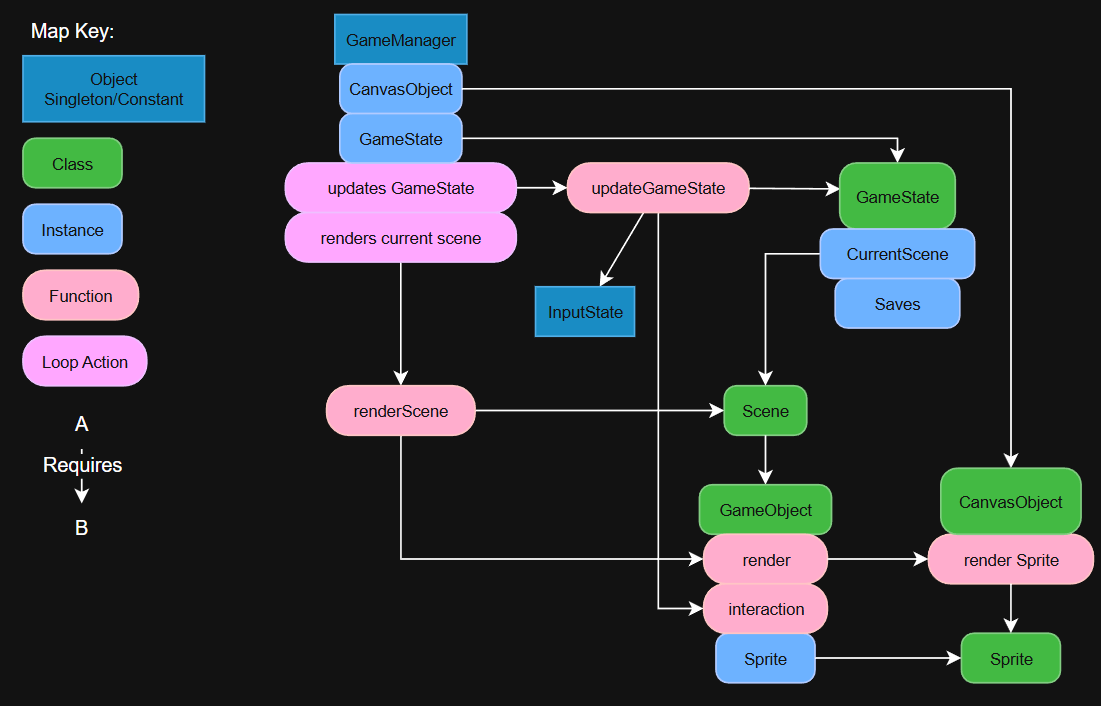
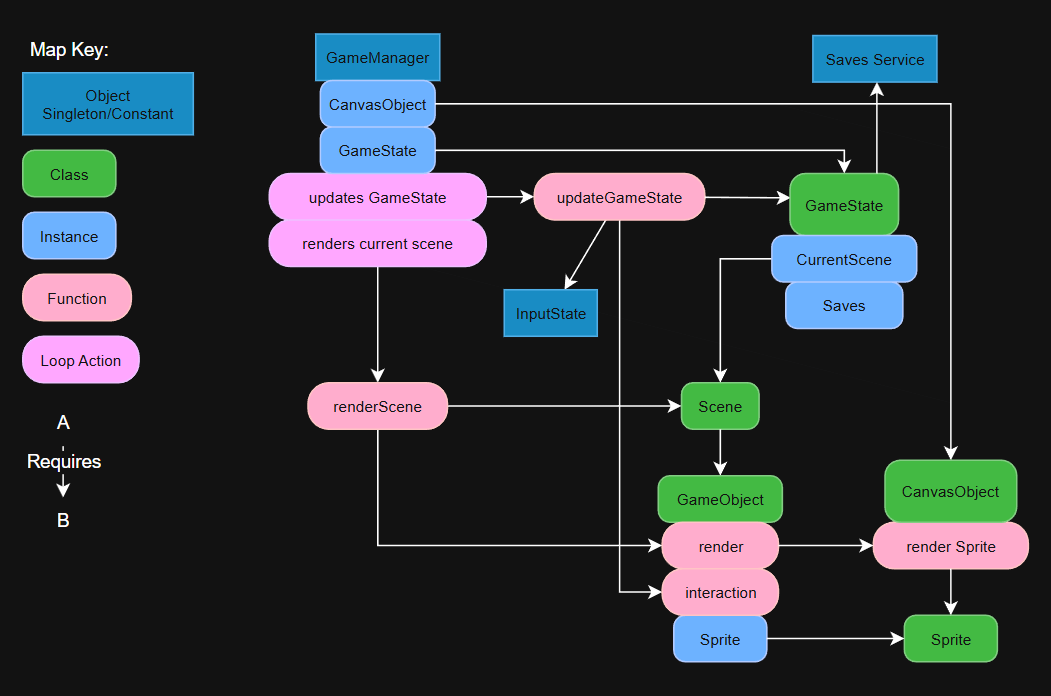
add perito dev translation image alt versions

Changed region(s): [[0.2436, 0.0, 1.0, 0.9957], [0.0, 0.0302, 0.2131, 0.7543]]

diff --git a/scripts/translation.js b/scripts/translation.js
@@ -12,12 +12,12 @@ const texts = {
     pt: "Portifólio de Bruno Rubim",
   },
   "welcome-1": {
-    en: "Hi, welcome to my portfolio! Here is where you can find overviews of my work in different projects.",
-    pt: "Olá, bem vind@ ao meu portifólio! Aqui você encontra alguns de meus trabalhos em projetos diferentes.",
+    en: "Hi, welcome to my portfolio! Here is where you can find overviews of my work in different projects, written in both English and Brazilian Portuguese.",
+    pt: "Olá, bem vind@ ao meu portifólio! Aqui você encontra alguns de meus trabalhos em projetos diferentes, escritos em Português Brasileiro e Inglês.",
   },
   "welcome-2": {
     en: "They will be separated in different sections, depending which area I worked on.",
-    pt: "Eles estão separados em diferentes seções, de acordo com a área de trabalho na qual eu atuei.",
+    pt: "Eles estão separados em diferentes seções, de acordo com a área que trabalhei.",
   },
   "welcome-3": {
     en: "Some projects will be featured in multiple sections given that my work on them involved different areas of art and design.",
@@ -84,28 +84,28 @@ const texts = {
     pt: "Para o engajamento dos jogadores, a plataforma que fizemos possúi um placar de pontuações. A soma da pontuação recorde em cada nível resulta no valor inserido no placar, incentivando os jogadores a aperfeiçoar suas abilidades de analize e identificar elementos suspeitos.",
   },
   "perito-dev-1": {
-    en: "Both to have an easy way to use systems of front/back end communication already learned in my course, as well as make use of skills I developed while experimenting with Javascript on my own time, with projects like Disc-Bot and Worm Sweeper, it was decided this project would run in Javascript. For this a system comparable to a crude game engine was designed.",
-    pt: "",
+    en: "Both to have an easy way to use systems of front/back end communication already learned at the course, as well as make use of skills I developed while experimenting with Javascript on my own time, with projects like Disc-Bot and Worm Sweeper, it was decided this project would run in Javascript (written in Typescript). For this a system comparable to a crude game engine was designed.",
+    pt: `Tanto para ter um fácil acesso aos sistemas de comunicação com front/back já aprendidos no curso, quanto usar fazer uso das habilidades que desenvolvi durante experimentos com Javascript no meu tempo pessoal, com projetos como Disc-Bot e Worm Sweeper, foi decidido que esse projeto rodaria em Javascript (escrito em Typescript). Para isso, um sistema comparável á uma game engine rudimentar foi projetada.`,
   },
   "perito-dev-2": {
-    en: "What follows is a diagram and explanation of summery of the game's overall system. The finished product features multiple sublcasses and aditional objects but this is the barebones of the structure and logic.",
-    pt: "",
+    en: `What follows is a diagram and explanation of a simplified version of this system. The finished product features multiple sublcasses and aditional objects but this is the barebones of the structure and logic.`,
+    pt: `O que segue são um diagrama e explicações de uma versão simplificada desse sistema. O produto final possúi multiplas subclasses e objetos adicionais mas esse é o básico da estrutura e lógica.`,
   },
   "perito-dev-3": {
-    en: `The game is made up of "GameObject"s, each holding information such as their HTML image element used as a Sprite, 2d coordinates, the dimentions of their hitbox, and interaction functions. Using a canvas HTML element to render the visuals, a "CanvasObject" was made to be able to have custom functions to draw sprites on said element. "Scenes" were also made to hold an array of objects, those would make up the game's different screens, such as the desktop screen, or the level selection screen.`,
-    pt: "",
+    en: `The game is made up of "GameObject"s, each holding information such as their HTML image element used as a "Sprite", 2d coordinates, the dimentions of their hitbox and interaction functions. Using a canvas HTML element to render the visuals, a "CanvasObject" was made to have custom functions to draw sprites of said element. "Scenes" were also made to hold an array of GameObjects, those would make up the game's different screens, such as the desktop screen, or the level selection screen.`,
+    pt: `O jogo é composto de "Objetos de Jogo", cada um guarda informações como seu elemento de imagem HTML usado como um "Sprite", coordenadas 2d, as dimensções de sua hitbox e funções de interação. Usando um elmento de canvas para renderizar os visuais, um "Objeto de Canvas" foi feito para guardar funções customizadas para desenhar sprites de elementos. "Cenas" foram também feitas para guardar uma lista de Objetos de Jogo, que compõe as diferentes telas do jogo, como a tela da área de trabalho ou a de seleção de níveis.`,
   },
   "perito-dev-4": {
-    en: `An instance of a class called "GameState" holds a few properties and functions, most importantly "currentScene" that represents the Scene the player would be at any given moment.<br>Another couple objects using eventListeners hold the player's input stuate, such as which keys were pressed, held down or not at all, mouse clicks, mouse movement, etc.`,
-    pt: ``,
+    en: `A class called "GameState" holds a few properties and functions, most importantly "currentScene" that represents the Scene the player would be interacting with at any given moment. It also has acces to the savesService, being able to load and update the player's save data on the platform.<br>Another object, called "InputState", using eventListeners hold the player's input stuate, such as which keys were pressed, held down or not at all, mouse clicks, mouse movement, etc.`,
+    pt: `Uma classe chamada "Estado de Jogo" guarda algumas propriedades e funções, mais importante sendo a "Cena Atual" que representa a Cena cjua qual o jogador estará interagindo em qualquer momento do jogo. Ele também tem acesso à service de salvamento, podendo carregar e atualizar os dados do salvamento com a plataforma.<br>Outro objeto chamado "Estado de Input" usa eventListeners para guardar o estado de input do jogador, como quais teclas estão pressionadas, seguradas, soltas, cliques do mouse, movimento do mouse, etc.`,
   },
   "perito-dev-5": {
-    en: `Those in combination with an "updateGameState" function would update the GameObjects in the gameState's currentScene, checking if the cursor was pressed, its position was within any GameObject's hitbox and then calling the object's function, which could affect the gameState. Another function is "renderScene" which goes through a scene's list of gameObjects and calls their render function with a given canvasObject, rendering the current frame of the game.`,
-    pt: ``,
+    en: `Those in combination with an "updateGameState" function update the GameObjects in a gameState's currentScene, checking things like if the mouse had clicked, its position was within any GameObject's hitbox and then calling the object's interaction function, which could affect the gameState.<br>Another function is "renderScene" which goes through a scene's list of gameObjects and calls their render function with a given canvasObject, rendering the current frame of the game.`,
+    pt: `Estes objetos junto com uma função "atualizar Estado de Jogo" atualizam os Objetos de Jogo da Cena Atual de um Estado de Jogo, verificando coisas como se o mouse clicou, se sua posição estava dentro da hitbox de um Objeto de Jogo e então chamando a função de interação do objeto, que poderia afetar o Estado de Jogo.<br>Outra função é "Renderizar Cena" que passa pela lista de Objetos de Jogo de uma cena e chama sua função de renderizar com um dado Objeto de Canvas, renderizando o frame atual do jogo.`,
   },
   "perito-dev-6": {
-    en: `A file called "gameManager" creates a gameState, as well as a canvasObject with the given HTML canvas element reference. With both instances it starts a loop using requestAnimationFrame, where it calls the functions to update the gameState instance and to render its scene using the canvasObject.`,
-    pt: ``,
+    en: `A file called "gameManager" creates a gameState, as well as a canvasObject with the given HTML canvas element reference. With both instances it starts a loop using requestAnimationFrame, where it calls the functions to update the gameState instance and to render its currentScene using the canvasObject.`,
+    pt: `Um arquivo chamado "Gerenciador do Jogo" cria um Estado de Jogo e um Objeto de Canvas com uma dada referência de um elemento HTML de canvas. Com ambas instâncias um loop é iniciado usando requestAnimationFrame, que chama as funções para atualizar o Estado de Jogo e renderizar sua Cena Atual usando o Objeto de Canvas.`,
   },
   "cibernauta-title": {
     en: `Cibernauta`,
@@ -144,10 +144,29 @@ function translate() {
   }
 }
 
+const altImages = {
+  "perito-dev-diagram": {
+    en: "img/mail_game/dev_diagram_0.png",
+    pt: "img/mail_game/dev_diagram_0_pt.png",
+  },
+};
+
+function altImage() {
+  for (const key in altImages) {
+    const image = document.querySelector("#" + key);
+    if (!image) {
+      continue;
+    }
+    image.src = altImages[key][leng];
+  }
+}
+
 function setLanguage(language) {
   leng = language;
   localStorage.setItem("language", language);
   translate();
+  altImage();
 }
 
 translate();
+altImage();

diff --git a/section_gamedev.html b/section_gamedev.html
@@ -38,7 +38,7 @@
       <p id="perito-dev-1"></p>
       <p id="perito-dev-2"></p>
       <div class="image-paragraph">
-        <img src="img/mail_game/dev_diagram_0.png" />
+        <img id="perito-dev-diagram" />
       </div>
       <p id="perito-dev-3"></p>
       <p id="perito-dev-4"></p>
